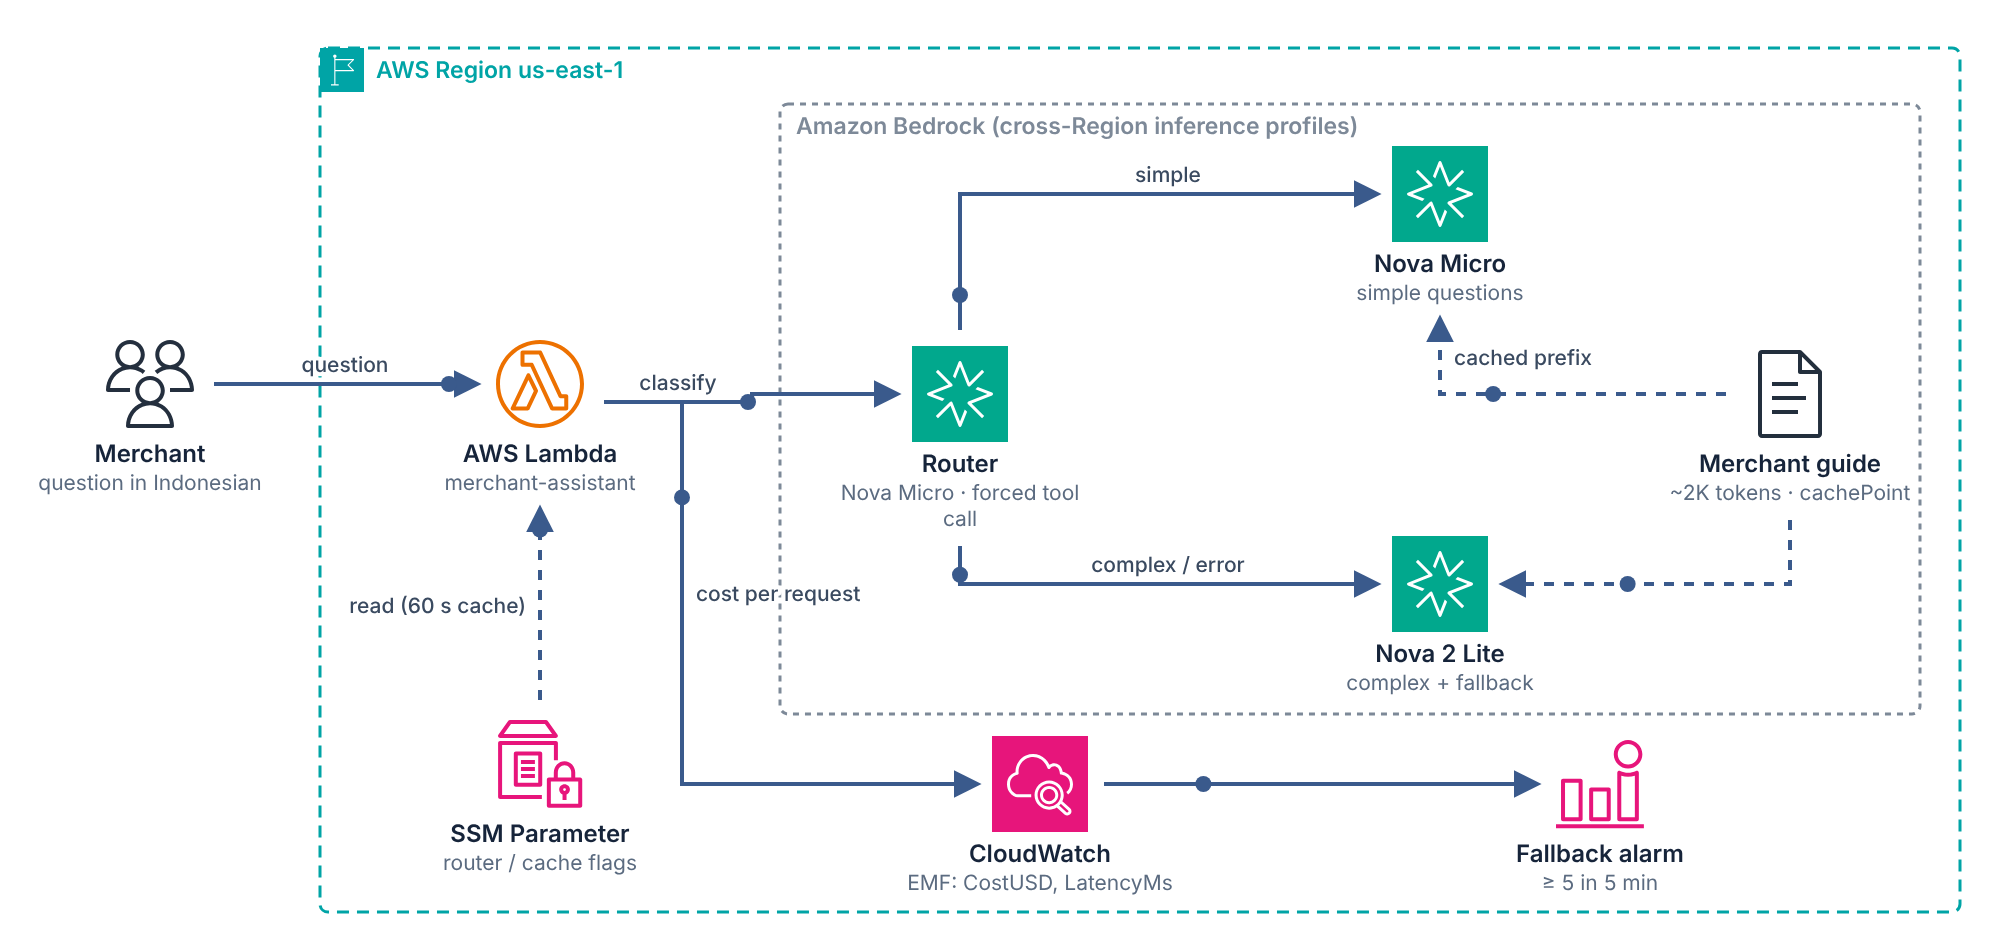
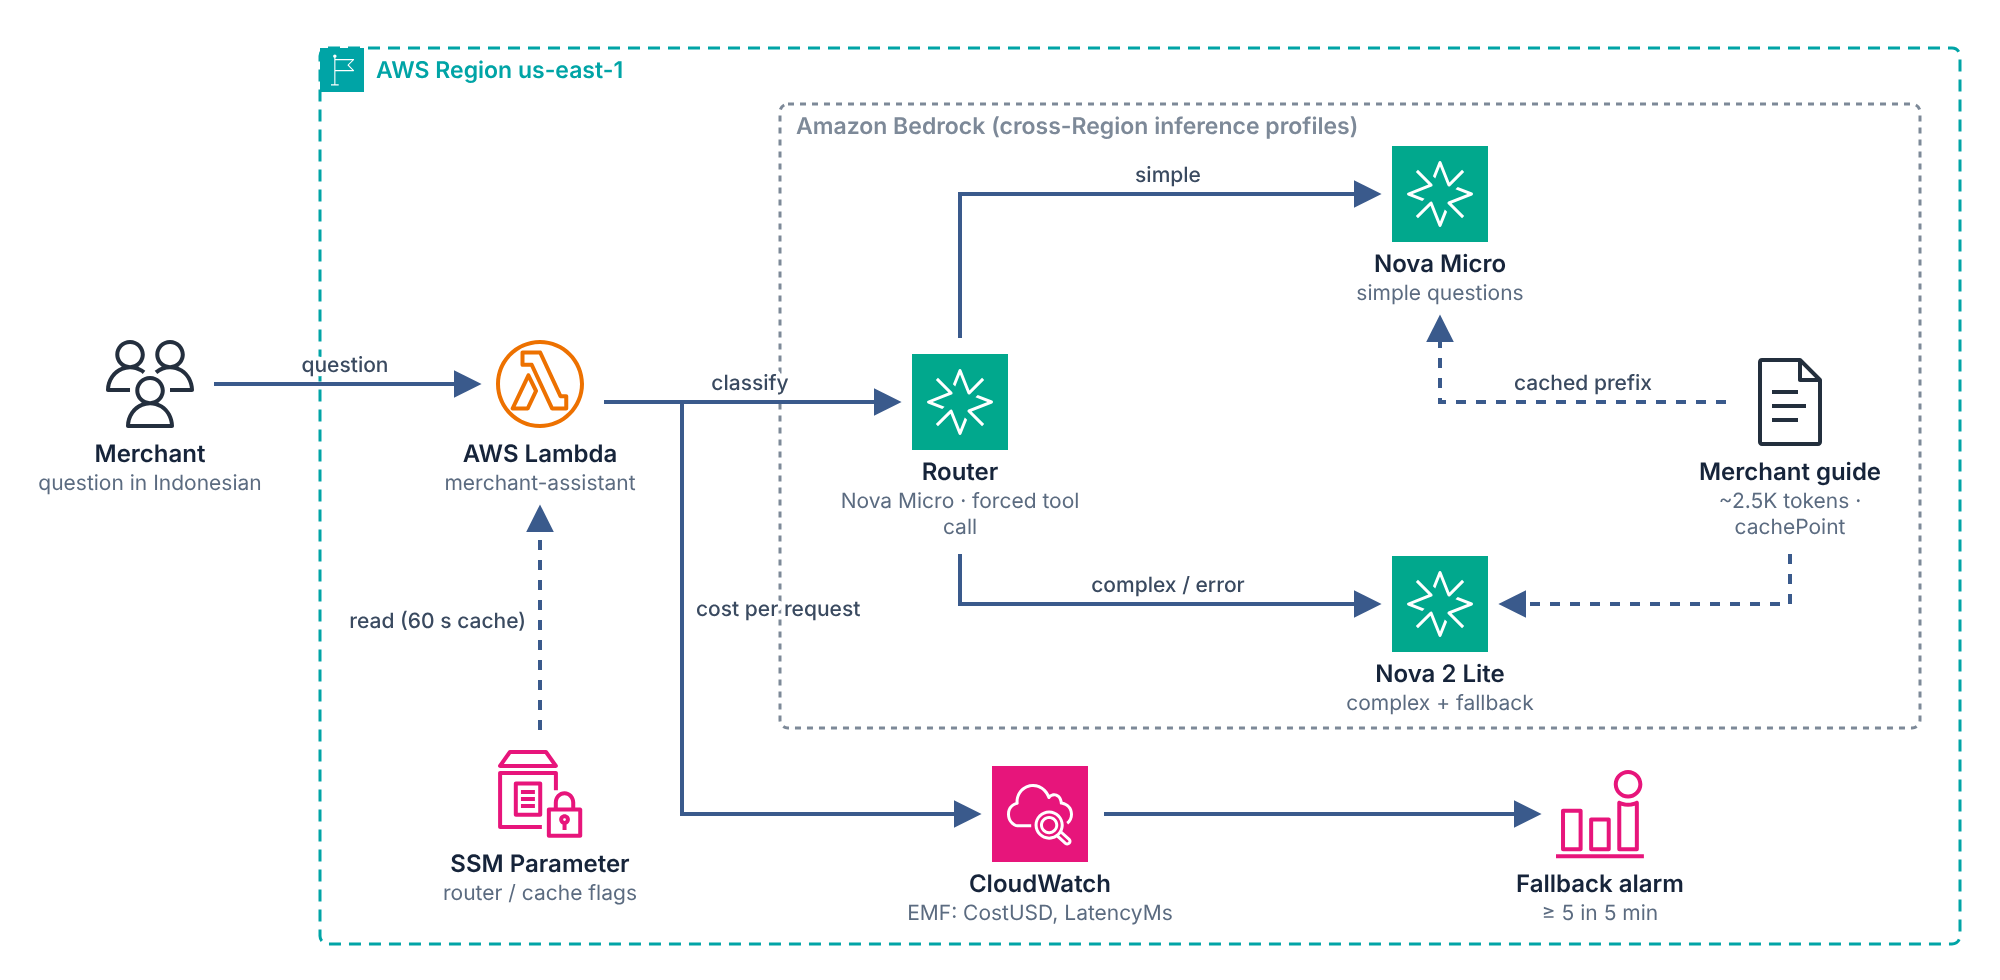
Use a static architecture image without the flow dots
The article and README now show static PNGs (light and dark) rendered
without the animated data dots; the layout is tidied (straight
Lambda -> Router line, more room above CloudWatch) and the guide size
reads ~2.5K tokens. The animated SVG/GIF stay in docs/images.

Claude-Session: https://claude.ai/code/session_01Bh4RsyetutLaR5dfUK6Gzm

diff --git a/README.md b/README.md
@@ -9,8 +9,8 @@ every answer must come from a ~2,500-token merchant guide (also in Indonesian). 
 questions ship with the repo, so you can run everything end to end yourself.
 
 <picture>
-  <source media="(prefers-color-scheme: dark)" srcset="docs/images/architecture-dark.svg">
-  <img alt="Merchant question goes to a Lambda function; a Nova Micro router sends simple questions to Nova Micro and complex ones (or router errors) to Nova 2 Lite; the merchant guide is a cached prefix; per-request cost goes to CloudWatch with a fallback alarm." src="docs/images/architecture.svg" width="100%">
+  <source media="(prefers-color-scheme: dark)" srcset="docs/images/architecture-dark.png">
+  <img alt="Merchant question goes to a Lambda function; a Nova Micro router sends simple questions to Nova Micro and complex ones (or router errors) to Nova 2 Lite; the merchant guide is a cached prefix; per-request cost goes to CloudWatch with a fallback alarm." src="docs/images/architecture.png" width="100%">
 </picture>
 
 What is in the repo:
